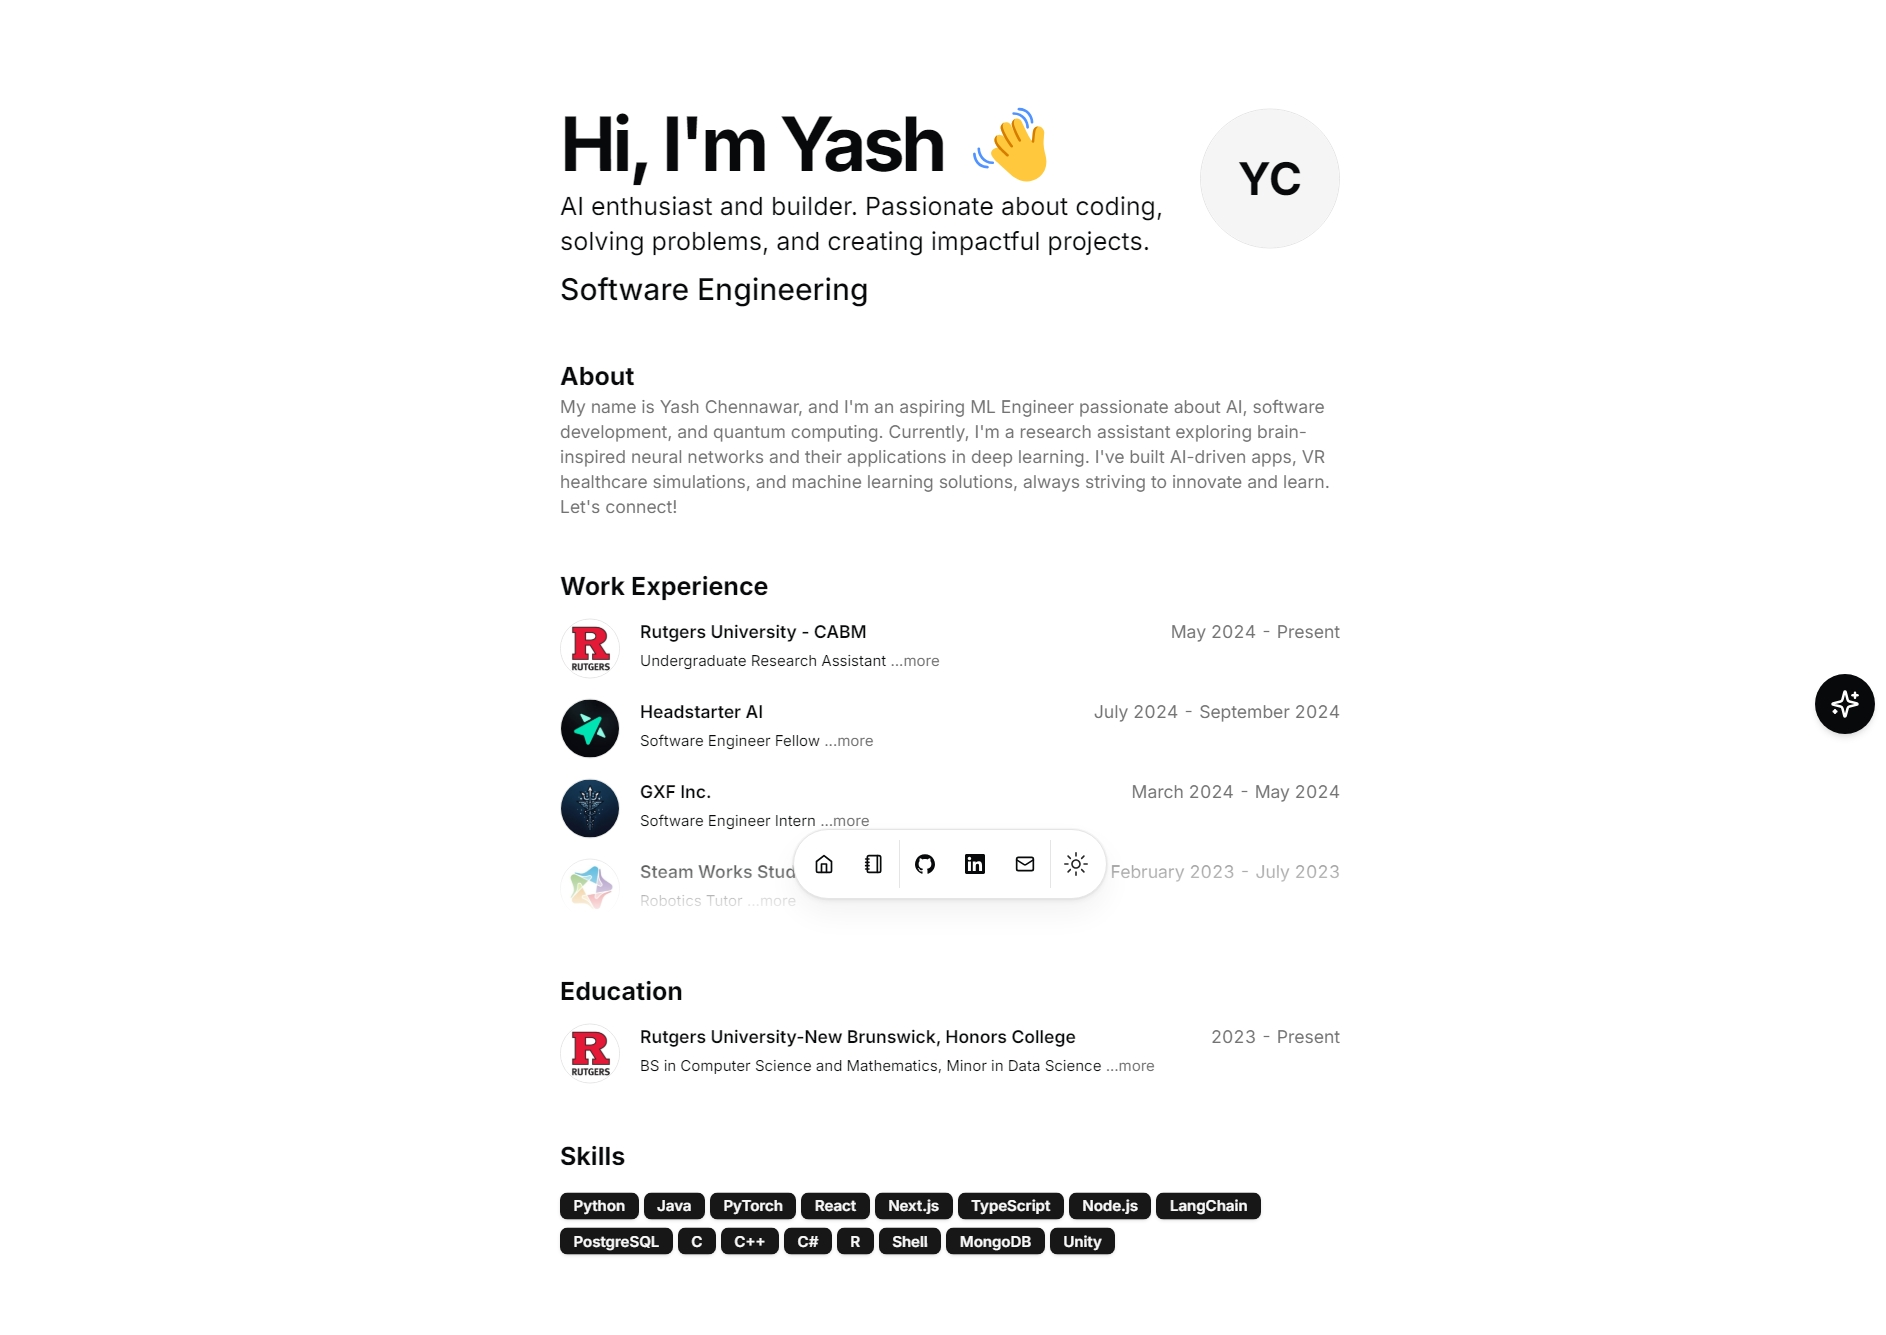
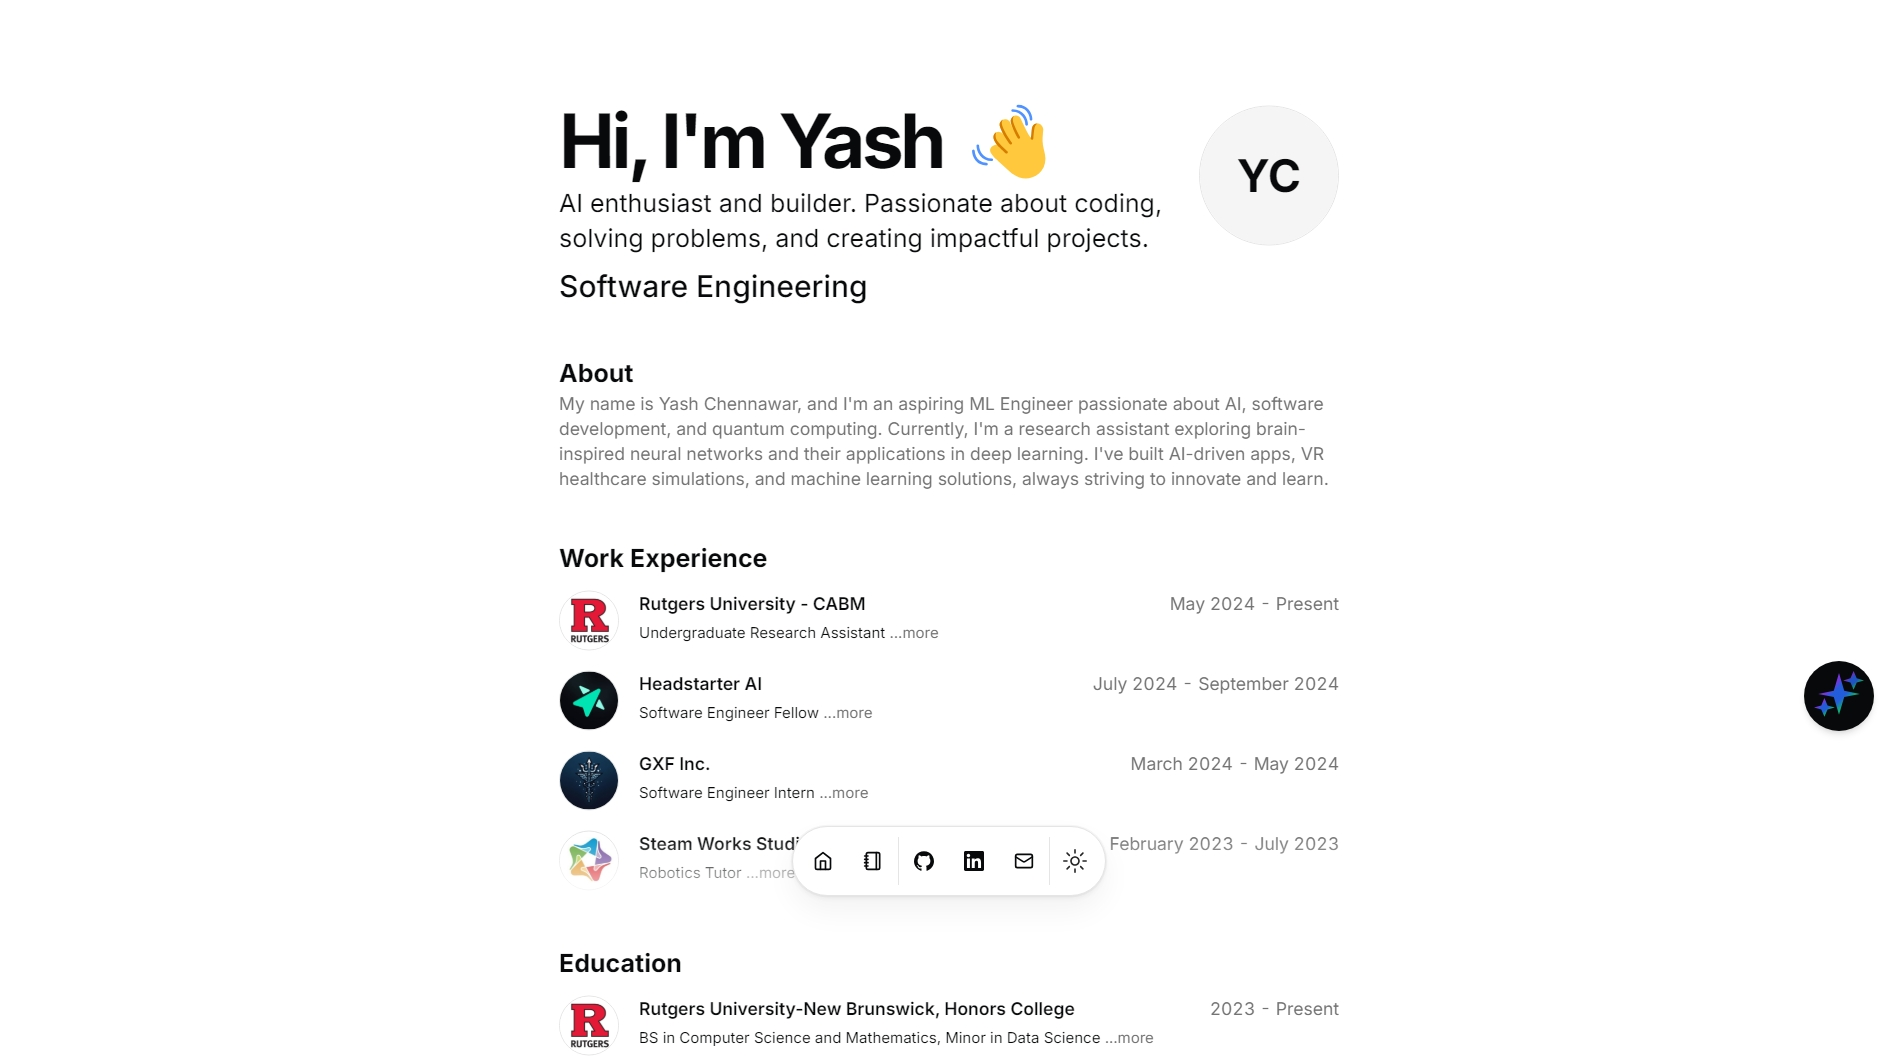
Updated some context, changed links

diff --git a/src/data/resume.tsx b/src/data/resume.tsx
@@ -150,7 +150,7 @@ export const DATA = {
       logoUrl: "/rutgers.png",
       start: "2023",
       end: "Present",
-      description: "Coursework: Artificial Intelligence, Computer Architecture, Data Structures, Data Management, Algorithms, Discrete Structures, Linear Algebra, Differential Equations, Calculus III, Probability Theory",
+      description: "Coursework: Introduction to Artificial Intelligence, Introduction to Data Science, Computer Architecture, Data Structures, Principles of Information and Data Management, Design and Analysis of Computer Algorithms, Discrete Structures (I & II), Linear Algebra, Elementary Differential Equations, Calculus III, Probability Theory",
       links: [
         {
           type: "Rutgers Honors College",
@@ -163,8 +163,8 @@ export const DATA = {
   projects: [
     {
       title: "Interactive Portfolio",
-      href: "https://portfolio-yashs-projects-73080.vercel.app/",
-      dates: "Dec 2024 - Jan 2024",
+      href: "https://yashchennawar.onrender.com/",
+      dates: "Dec 2024 - Jan 2025",
       active: true,
       description:
         "Developed a personal portfolio website to showcase my projects, skills, and experiences. Integrated a RAG-powered AI chatbot to answer questions based on my experiences.",
@@ -177,13 +177,12 @@ export const DATA = {
         "Pinecone",
         "OpenAI",
         "Flask",
-        "Vercel",
         "Render",
       ],
       links: [
         {
           type: "Website",
-          href: "https://portfolio-yashs-projects-73080.vercel.app/",
+          href: "https://yashchennawar.onrender.com/",
           icon: <Icons.globe className="size-3" />,
         },
         {

diff --git a/backend/data.md b/backend/data.md
@@ -7,12 +7,14 @@ https://www.github.com/yashc73080
 
 # Education
 ## Rutgers University-New Brunswick Honors College
+Rutgers University-New Brunswick
+In the Honors College
 Graduating May 2027
 Bachelor of Science: Computer Science and Mathematics Double Major, Data Science Minor
 GPA: 3.8/4.0
 
 ### Coursework
-Artificial Intelligence, Computer Architecture, Data Structures, Data Management, Algorithms, Discrete Structures, Linear Algebra, Differential Equations, Calculus III, Probability Theory, Statistics, Quantum Computing
+Coursework: Introduction to Artificial Intelligence, Introduction to Data Science, Computer Architecture, Data Structures, Principles of Information and Data Management, Design and Analysis of Computer Algorithms, Discrete Structures (I & II), Linear Algebra, Elementary Differential Equations, Calculus III, Probability Theory
 
 # Technical/Work Experience
 
